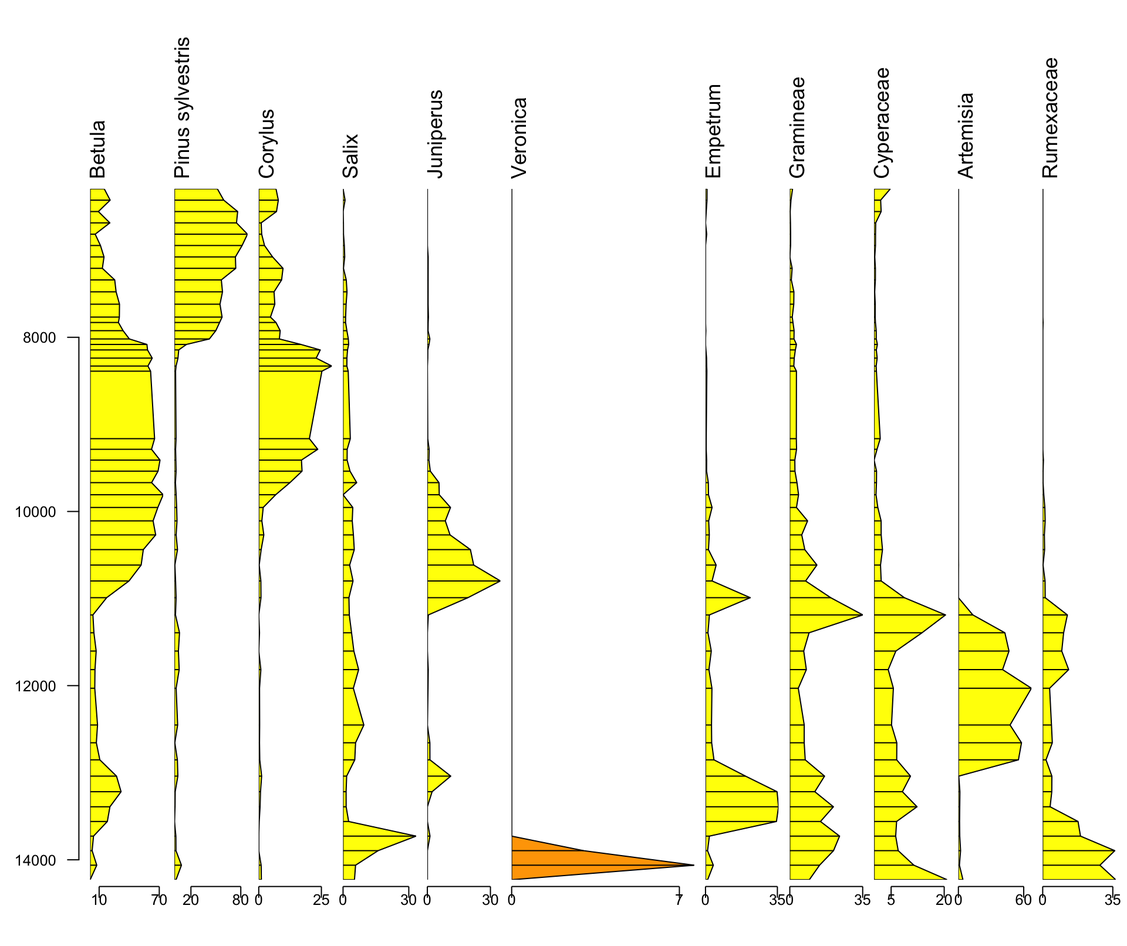
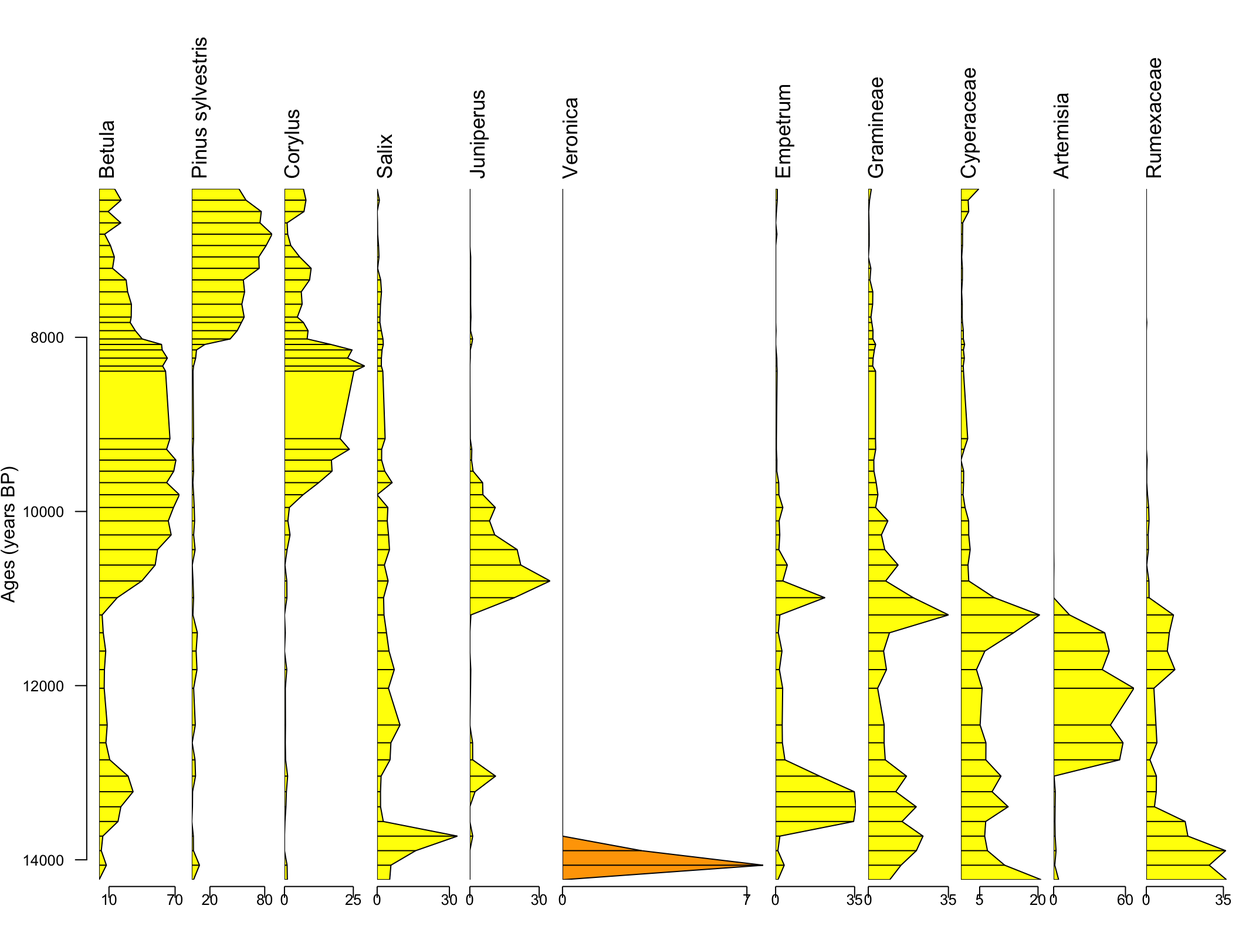
updated

diff --git a/chapters/chp1_stratplot.html b/chapters/chp1_stratplot.html
@@ -169,7 +169,7 @@ pre > code.sourceCode > span > a:first-child::before { text-decoration: underlin
   <ul class="collapse">
   <li><a href="#how-should-the-pollen-data-be-formatted" id="toc-how-should-the-pollen-data-be-formatted" class="nav-link" data-scroll-target="#how-should-the-pollen-data-be-formatted">How should the pollen data be formatted?</a></li>
   <li><a href="#when-did-these-events-occur" id="toc-when-did-these-events-occur" class="nav-link" data-scroll-target="#when-did-these-events-occur">When did these events occur?</a></li>
-  <li><a href="#how-can-less-pollen-productive-taxa-be-emphasized" id="toc-how-can-less-pollen-productive-taxa-be-emphasized" class="nav-link" data-scroll-target="#how-can-less-pollen-productive-taxa-be-emphasized">How can less pollen-productive taxa be emphasized?</a></li>
+  <li><a href="#how-can-rare-taxa-be-emphasized" id="toc-how-can-rare-taxa-be-emphasized" class="nav-link" data-scroll-target="#how-can-rare-taxa-be-emphasized">How can rare taxa be emphasized?</a></li>
   <li><a href="#how-can-the-order-of-taxa-be-rearranged" id="toc-how-can-the-order-of-taxa-be-rearranged" class="nav-link" data-scroll-target="#how-can-the-order-of-taxa-be-rearranged">How can the order of taxa be rearranged?</a></li>
   <li><a href="#how-do-i-add-a-stratigraphically-constrained-cluster-diagram" id="toc-how-do-i-add-a-stratigraphically-constrained-cluster-diagram" class="nav-link" data-scroll-target="#how-do-i-add-a-stratigraphically-constrained-cluster-diagram">How do I add a stratigraphically constrained cluster diagram?</a></li>
   <li><a href="#summary-panel" id="toc-summary-panel" class="nav-link" data-scroll-target="#summary-panel">Summary Panel</a></li>
@@ -212,7 +212,9 @@ pre > code.sourceCode > span > a:first-child::before { text-decoration: underlin
 
 <section id="overview" class="level2">
 <h2 class="anchored" data-anchor-id="overview">Overview</h2>
-<p>In 1980, the Quaternary paleoecologist John Birks wrote that computer-drawn pollen diagrams “are very useful for preliminary arrangement and interpretation of the data …. However, [they] are not sufficiently good for publication, and diagrams for publication must still be drafted by hand.” In the 2020s, all published pollen diagrams are computer-generated. One wonders whether the deliberate process of hand drawing encouraged earlier generations of paleoecologists to think more deeply about the patterns they were representing. But today’s users can rapidly reconfigure their diagrams in an iterative interpretation process and finally create highly customized visualizations using the array of software tools which now exist. Users can easily choose which taxa to include or exclude, change their order, and complement their diagrams with stratigraphically constrained clusters, among other things. In this chapter, we’ll focus on two tools for creating computer-generated stratigraphic plots: the R package <code>rioja</code> and the software Tilia.</p>
+<p>In 1980, the Quaternary paleoecologist John Birks wrote that computer-drawn pollen diagrams “are very useful for preliminary arrangement and interpretation of the data …. However, [they] are not sufficiently good for publication, and diagrams for publication must still be drafted by hand.”</p>
+<p>Now, it is standard for published pollen diagrams to be computer-generated. One wonders whether the deliberate process of hand drawing encouraged earlier generations of paleoecologists to think more deeply about the patterns they were representing. But today’s users can rapidly reconfigure their diagrams in an iterative interpretation process and finally create highly customized visualizations using the array of software tools which now exist.</p>
+<p>Users can easily choose which taxa to include or exclude, change their order, and complement their diagrams with stratigraphically constrained clusters, among other things. In this chapter, we will focus on two tools for creating computer-generated stratigraphic plots: the R package <code>rioja</code> and the software Tilia.</p>
 <div class="quarto-figure quarto-figure-center">
 <figure class="figure">
 <p><img src="../figures/davis1958.JPG" class="img-fluid figure-img" width="800"></p>
@@ -222,7 +224,7 @@ pre > code.sourceCode > span > a:first-child::before { text-decoration: underlin
 </section>
 <section id="plotting-with-rioja" class="level2">
 <h2 class="anchored" data-anchor-id="plotting-with-rioja">Plotting with Rioja</h2>
-<p>In order to plot some pollen data using the R package <code>rioja</code>, we need to call it using the <code>library()</code> function as below. The package comes with sample data - <code>aber</code>, “pollen stratigraphic data from Abernethy Forest, Scotland, spanning approximately 5500 - 12100 BP (from Birks &amp; Mathews 1978)” - which we will plot. The <code>aber</code> object is a list with three components:</p>
+<p>In order to plot some pollen data using the R package <code>rioja</code>, we need to call the package using the <code>library()</code> function as below. The package comes with sample data - <code>aber</code>, “pollen stratigraphic data from Abernethy Forest, Scotland, spanning approximately 5500 - 12100 BP (from Birks &amp; Mathews 1978)” - which we will plot. The <code>aber</code> object is a list with three components:</p>
 <ul>
 <li><code>spec</code> - the actual pollen spectra, 49 rows of samples named by depth of 36 taxa arranged as columns, formatted as percentages</li>
 <li><code>ages</code> - a table mapping depths to uncalibrated and calibrated radiocarbon years, and</li>
@@ -259,13 +261,20 @@ pre > code.sourceCode > span > a:first-child::before { text-decoration: underlin
  98.55  98.76 100.00  99.02  99.99 </code></pre>
 </div>
 </div>
-<p>It’s not perfect, but they add up more or less to 100 - good! Let’s actually try plotting the data now, using the <code>strat.plot()</code> function. The first argument of the function is the pollen spectra to be represented, and we add two additional arguments. Setting <code>scale.percent</code> to true scales the width of any taxon column to its abundance, and setting <code>y.rev</code> to true reverses the y axis, so larger values are below smaller values. This is a standard convention for stratigraphic plots, where age and depth increase as you proceed further down the core.</p>
+<p>It’s not perfect, but they add up more or less to 100 - good! Let’s actually try plotting the data now, using the <code>strat.plot()</code> function. The first argument of the function is the pollen spectra to be represented, and we add five additional arguments. We assign <code>yvar</code> a numeric vector corresponding to the depths in cm of each stratum we plot. (We get these depths from the named rows of <code>aber$spec</code>.) Setting <code>scale.percent</code> to true scales the width of any taxon column to its abundance, and setting <code>y.rev</code> to true reverses the y axis, so larger values are below smaller values. This is a standard convention for stratigraphic plots, where age and depth increase as you proceed further down the core. We’ll also label the y axis, and assign <code>ylabPos</code> a value of 3, which will keep it from being superimposed on the y axis tickmark labels.</p>
 <div class="cell">
-<div class="sourceCode cell-code" id="cb4"><pre class="sourceCode r code-with-copy"><code class="sourceCode r"><span id="cb4-1"><a href="#cb4-1" aria-hidden="true" tabindex="-1"></a><span class="fu">strat.plot</span>(aber<span class="sc">$</span>spec, <span class="at">scale.percent=</span><span class="cn">TRUE</span>, <span class="at">y.rev=</span><span class="cn">TRUE</span>)</span></code><button title="Copy to Clipboard" class="code-copy-button"><i class="bi"></i></button></pre></div>
+<div class="sourceCode cell-code" id="cb4"><pre class="sourceCode r code-with-copy"><code class="sourceCode r"><span id="cb4-1"><a href="#cb4-1" aria-hidden="true" tabindex="-1"></a>depths <span class="ot">=</span> <span class="fu">as.numeric</span>(<span class="fu">row.names</span>(aber<span class="sc">$</span>spec))</span>
+<span id="cb4-2"><a href="#cb4-2" aria-hidden="true" tabindex="-1"></a></span>
+<span id="cb4-3"><a href="#cb4-3" aria-hidden="true" tabindex="-1"></a><span class="fu">strat.plot</span>(aber<span class="sc">$</span>spec, </span>
+<span id="cb4-4"><a href="#cb4-4" aria-hidden="true" tabindex="-1"></a>           <span class="at">yvar=</span>depths,</span>
+<span id="cb4-5"><a href="#cb4-5" aria-hidden="true" tabindex="-1"></a>           <span class="at">scale.percent=</span><span class="cn">TRUE</span>, </span>
+<span id="cb4-6"><a href="#cb4-6" aria-hidden="true" tabindex="-1"></a>           <span class="at">y.rev=</span><span class="cn">TRUE</span>,</span>
+<span id="cb4-7"><a href="#cb4-7" aria-hidden="true" tabindex="-1"></a>           <span class="at">ylabel=</span><span class="st">"Depth (cm)"</span>, </span>
+<span id="cb4-8"><a href="#cb4-8" aria-hidden="true" tabindex="-1"></a>           <span class="at">ylabPos =</span> <span class="dv">3</span>)</span></code><button title="Copy to Clipboard" class="code-copy-button"><i class="bi"></i></button></pre></div>
 <div class="cell-output-display">
 <div>
 <figure class="figure">
-<p><img src="chp1_stratplot_files/figure-html/three-1.png" class="img-fluid figure-img" width="672"></p>
+<p><img src="chp1_stratplot_files/figure-html/three-1.png" class="img-fluid figure-img" width="1056"></p>
 </figure>
 </div>
 </div>
@@ -276,11 +285,16 @@ pre > code.sourceCode > span > a:first-child::before { text-decoration: underlin
 <div class="sourceCode cell-code" id="cb5"><pre class="sourceCode r code-with-copy"><code class="sourceCode r"><span id="cb5-1"><a href="#cb5-1" aria-hidden="true" tabindex="-1"></a>aber_streamlined1  <span class="ot">=</span> aber<span class="sc">$</span>spec[<span class="fu">colMeans</span>(aber<span class="sc">$</span>spec)<span class="sc">&gt;</span><span class="dv">3</span>]</span>
 <span id="cb5-2"><a href="#cb5-2" aria-hidden="true" tabindex="-1"></a></span>
 <span id="cb5-3"><a href="#cb5-3" aria-hidden="true" tabindex="-1"></a></span>
-<span id="cb5-4"><a href="#cb5-4" aria-hidden="true" tabindex="-1"></a><span class="fu">strat.plot</span>(aber_streamlined1, <span class="at">scale.percent=</span><span class="cn">TRUE</span>, <span class="at">y.rev=</span><span class="cn">TRUE</span>)</span></code><button title="Copy to Clipboard" class="code-copy-button"><i class="bi"></i></button></pre></div>
+<span id="cb5-4"><a href="#cb5-4" aria-hidden="true" tabindex="-1"></a><span class="fu">strat.plot</span>(aber_streamlined1, </span>
+<span id="cb5-5"><a href="#cb5-5" aria-hidden="true" tabindex="-1"></a>           <span class="at">yvar=</span>depths,</span>
+<span id="cb5-6"><a href="#cb5-6" aria-hidden="true" tabindex="-1"></a>           <span class="at">scale.percent=</span><span class="cn">TRUE</span>, </span>
+<span id="cb5-7"><a href="#cb5-7" aria-hidden="true" tabindex="-1"></a>           <span class="at">y.rev=</span><span class="cn">TRUE</span>,</span>
+<span id="cb5-8"><a href="#cb5-8" aria-hidden="true" tabindex="-1"></a>           <span class="at">ylabel=</span><span class="st">"Depth (cm)"</span>, </span>
+<span id="cb5-9"><a href="#cb5-9" aria-hidden="true" tabindex="-1"></a>           <span class="at">ylabPos =</span> <span class="dv">3</span>)</span></code><button title="Copy to Clipboard" class="code-copy-button"><i class="bi"></i></button></pre></div>
 <div class="cell-output-display">
 <div>
 <figure class="figure">
-<p><img src="chp1_stratplot_files/figure-html/four-1.png" class="img-fluid figure-img" width="672"></p>
+<p><img src="chp1_stratplot_files/figure-html/four-1.png" class="img-fluid figure-img" width="1056"></p>
 </figure>
 </div>
 </div>
@@ -290,24 +304,26 @@ pre > code.sourceCode > span > a:first-child::before { text-decoration: underlin
 <section id="when-did-these-events-occur" class="level3">
 <h3 class="anchored" data-anchor-id="when-did-these-events-occur">When did these events occur?</h3>
 <p>But when did these events occur? We can’t simply assume that depth is one-to-one with time, because as the vegetation tracked by this sediment core changed, the rate of sedimentation may well have changed too. One can imagine that a prairie landscape suggested at the bottom of the core, perhaps grazed by large herds of animals, would have greater disturbance and sedimentation then a later forest landscape, where tree roots are keeping the soil solidly in place.</p>
-<p>Luckily, the <code>aber</code> dataset comes with a chronology that we can use in place of depth for our y axis.</p>
+<p>Luckily, the <code>aber</code> dataset comes with a chronology that we can use in place of depth for our y axis. We’ll change the y label to reflect the fact that now we’re plotting against age, not depth.</p>
 <div class="cell">
 <div class="sourceCode cell-code" id="cb6"><pre class="sourceCode r code-with-copy"><code class="sourceCode r"><span id="cb6-1"><a href="#cb6-1" aria-hidden="true" tabindex="-1"></a><span class="fu">strat.plot</span>(aber_streamlined1, </span>
 <span id="cb6-2"><a href="#cb6-2" aria-hidden="true" tabindex="-1"></a>           <span class="at">yvar=</span>aber<span class="sc">$</span>ages<span class="sc">$</span><span class="st">`</span><span class="at">Age (years BP)</span><span class="st">`</span>, </span>
 <span id="cb6-3"><a href="#cb6-3" aria-hidden="true" tabindex="-1"></a>           <span class="at">scale.percent=</span><span class="cn">TRUE</span>, </span>
-<span id="cb6-4"><a href="#cb6-4" aria-hidden="true" tabindex="-1"></a>           <span class="at">y.rev=</span><span class="cn">TRUE</span>)</span></code><button title="Copy to Clipboard" class="code-copy-button"><i class="bi"></i></button></pre></div>
+<span id="cb6-4"><a href="#cb6-4" aria-hidden="true" tabindex="-1"></a>           <span class="at">y.rev=</span><span class="cn">TRUE</span>,</span>
+<span id="cb6-5"><a href="#cb6-5" aria-hidden="true" tabindex="-1"></a>           <span class="at">ylabel=</span><span class="st">"Ages (years BP)"</span>, </span>
+<span id="cb6-6"><a href="#cb6-6" aria-hidden="true" tabindex="-1"></a>           <span class="at">ylabPos =</span> <span class="dv">3</span>)</span></code><button title="Copy to Clipboard" class="code-copy-button"><i class="bi"></i></button></pre></div>
 <div class="cell-output-display">
 <div>
 <figure class="figure">
-<p><img src="chp1_stratplot_files/figure-html/five-1.png" class="img-fluid figure-img" width="960"></p>
+<p><img src="chp1_stratplot_files/figure-html/five-1.png" class="img-fluid figure-img" width="1056"></p>
 </figure>
 </div>
 </div>
 </div>
 <p>Substituting time for depth doesn’t wildly change our understanding of the dynamics at Abernethy. One of the biggest changes is that, actually, that earliest ecological period lasted longer than we might have guessed from the depth profile, suggesting a slower sedimentation rate then. Still, having a chronology is generally preferably to going by bare depth, since it enables comparison to other sites and allows us to disentangle real ecological change from change in sedimentation rate.</p>
 </section>
-<section id="how-can-less-pollen-productive-taxa-be-emphasized" class="level3">
-<h3 class="anchored" data-anchor-id="how-can-less-pollen-productive-taxa-be-emphasized">How can less pollen-productive taxa be emphasized?</h3>
+<section id="how-can-rare-taxa-be-emphasized" class="level3">
+<h3 class="anchored" data-anchor-id="how-can-rare-taxa-be-emphasized">How can rare taxa be emphasized?</h3>
 <p>Earlier, we grabbed just the most prevalent taxa at our site. But you may care about a taxon that doesn’t show up as abundantly in the pollen-record – perhaps because it’s insect-pollinated rather than wind-pollinated – but whose presences are meaningful, nonetheless. We can exaggerate the scale factor of these taxa in order to emphasize their importance. Let’s do so with the insect-pollinated taxa, <i>Veronica</i>.</p>
 <p>First, we’ll bind the column of <i>Veronica</i> from the original dataframe to our most prevalent taxa. We’ll set <code>plot.poly</code> to TRUE to plot polygons, since we’ll want to change the fill colors, and we’ll also make sure the names are correctly formatted by explicitly renaming the column headings.</p>
 <div class="cell">
@@ -321,11 +337,13 @@ pre > code.sourceCode > span > a:first-child::before { text-decoration: underlin
 <span id="cb7-8"><a href="#cb7-8" aria-hidden="true" tabindex="-1"></a>           <span class="at">yvar=</span>aber<span class="sc">$</span>ages<span class="sc">$</span><span class="st">`</span><span class="at">Age (years BP)</span><span class="st">`</span>,</span>
 <span id="cb7-9"><a href="#cb7-9" aria-hidden="true" tabindex="-1"></a>           <span class="at">scale.percent=</span><span class="cn">TRUE</span>, </span>
 <span id="cb7-10"><a href="#cb7-10" aria-hidden="true" tabindex="-1"></a>           <span class="at">y.rev=</span><span class="cn">TRUE</span>,</span>
-<span id="cb7-11"><a href="#cb7-11" aria-hidden="true" tabindex="-1"></a>           <span class="at">plot.poly=</span><span class="cn">TRUE</span>)</span></code><button title="Copy to Clipboard" class="code-copy-button"><i class="bi"></i></button></pre></div>
+<span id="cb7-11"><a href="#cb7-11" aria-hidden="true" tabindex="-1"></a>           <span class="at">plot.poly=</span><span class="cn">TRUE</span>,</span>
+<span id="cb7-12"><a href="#cb7-12" aria-hidden="true" tabindex="-1"></a>           <span class="at">ylabel=</span><span class="st">"Ages (years BP)"</span>, </span>
+<span id="cb7-13"><a href="#cb7-13" aria-hidden="true" tabindex="-1"></a>           <span class="at">ylabPos =</span> <span class="dv">3</span>)</span></code><button title="Copy to Clipboard" class="code-copy-button"><i class="bi"></i></button></pre></div>
 <div class="cell-output-display">
 <div>
 <figure class="figure">
-<p><img src="chp1_stratplot_files/figure-html/six-1.png" class="img-fluid figure-img" width="960"></p>
+<p><img src="chp1_stratplot_files/figure-html/six-1.png" class="img-fluid figure-img" width="1056"></p>
 </figure>
 </div>
 </div>
@@ -337,15 +355,17 @@ pre > code.sourceCode > span > a:first-child::before { text-decoration: underlin
 <span id="cb8-2"><a href="#cb8-2" aria-hidden="true" tabindex="-1"></a>           <span class="at">yvar=</span>aber<span class="sc">$</span>ages<span class="sc">$</span><span class="st">`</span><span class="at">Age (years BP)</span><span class="st">`</span>,</span>
 <span id="cb8-3"><a href="#cb8-3" aria-hidden="true" tabindex="-1"></a>           <span class="at">scale.percent=</span><span class="cn">FALSE</span>,</span>
 <span id="cb8-4"><a href="#cb8-4" aria-hidden="true" tabindex="-1"></a>           <span class="at">graph.widths=</span><span class="fu">c</span>(<span class="fl">0.2</span>,<span class="fu">rep</span>(<span class="fl">0.08</span>,<span class="dv">10</span>)),</span>
-<span id="cb8-5"><a href="#cb8-5" aria-hidden="true" tabindex="-1"></a>           <span class="at">y.rev=</span><span class="cn">TRUE</span>, </span>
-<span id="cb8-6"><a href="#cb8-6" aria-hidden="true" tabindex="-1"></a>           <span class="at">plot.poly=</span><span class="cn">TRUE</span>,</span>
-<span id="cb8-7"><a href="#cb8-7" aria-hidden="true" tabindex="-1"></a>           <span class="at">col.poly=</span><span class="fu">c</span>(<span class="st">"orange"</span>,<span class="fu">rep</span>(<span class="st">"yellow"</span>,<span class="dv">10</span>)),</span>
-<span id="cb8-8"><a href="#cb8-8" aria-hidden="true" tabindex="-1"></a>           <span class="at">exag=</span><span class="fu">c</span>(<span class="cn">TRUE</span>,<span class="fu">rep</span>(<span class="cn">FALSE</span>,<span class="dv">10</span>)),</span>
-<span id="cb8-9"><a href="#cb8-9" aria-hidden="true" tabindex="-1"></a>           <span class="at">col.exag=</span><span class="st">"red"</span>)</span></code><button title="Copy to Clipboard" class="code-copy-button"><i class="bi"></i></button></pre></div>
+<span id="cb8-5"><a href="#cb8-5" aria-hidden="true" tabindex="-1"></a>           <span class="at">y.rev=</span><span class="cn">TRUE</span>,</span>
+<span id="cb8-6"><a href="#cb8-6" aria-hidden="true" tabindex="-1"></a>           <span class="at">ylabel=</span><span class="st">"Ages (years BP)"</span>, </span>
+<span id="cb8-7"><a href="#cb8-7" aria-hidden="true" tabindex="-1"></a>           <span class="at">ylabPos =</span> <span class="dv">3</span>, </span>
+<span id="cb8-8"><a href="#cb8-8" aria-hidden="true" tabindex="-1"></a>           <span class="at">plot.poly=</span><span class="cn">TRUE</span>,</span>
+<span id="cb8-9"><a href="#cb8-9" aria-hidden="true" tabindex="-1"></a>           <span class="at">col.poly=</span><span class="fu">c</span>(<span class="st">"orange"</span>,<span class="fu">rep</span>(<span class="st">"yellow"</span>,<span class="dv">10</span>)),</span>
+<span id="cb8-10"><a href="#cb8-10" aria-hidden="true" tabindex="-1"></a>           <span class="at">exag=</span><span class="fu">c</span>(<span class="cn">TRUE</span>,<span class="fu">rep</span>(<span class="cn">FALSE</span>,<span class="dv">10</span>)),</span>
+<span id="cb8-11"><a href="#cb8-11" aria-hidden="true" tabindex="-1"></a>           <span class="at">col.exag=</span><span class="st">"red"</span>)</span></code><button title="Copy to Clipboard" class="code-copy-button"><i class="bi"></i></button></pre></div>
 <div class="cell-output-display">
 <div>
 <figure class="figure">
-<p><img src="chp1_stratplot_files/figure-html/seven-1.png" class="img-fluid figure-img" width="960"></p>
+<p><img src="chp1_stratplot_files/figure-html/seven-1.png" class="img-fluid figure-img" width="1056"></p>
 </figure>
 </div>
 </div>
@@ -356,15 +376,17 @@ pre > code.sourceCode > span > a:first-child::before { text-decoration: underlin
 <span id="cb9-2"><a href="#cb9-2" aria-hidden="true" tabindex="-1"></a>           <span class="at">yvar=</span>aber<span class="sc">$</span>ages<span class="sc">$</span><span class="st">`</span><span class="at">Age (years BP)</span><span class="st">`</span>,</span>
 <span id="cb9-3"><a href="#cb9-3" aria-hidden="true" tabindex="-1"></a>           <span class="at">scale.percent=</span><span class="cn">FALSE</span>,</span>
 <span id="cb9-4"><a href="#cb9-4" aria-hidden="true" tabindex="-1"></a>           <span class="at">graph.widths=</span><span class="fu">c</span>(<span class="fl">0.2</span>,<span class="fu">rep</span>(<span class="fl">0.08</span>,<span class="dv">10</span>)),</span>
-<span id="cb9-5"><a href="#cb9-5" aria-hidden="true" tabindex="-1"></a>           <span class="at">y.rev=</span><span class="cn">TRUE</span>, </span>
-<span id="cb9-6"><a href="#cb9-6" aria-hidden="true" tabindex="-1"></a>           <span class="at">plot.poly=</span><span class="cn">TRUE</span>,</span>
-<span id="cb9-7"><a href="#cb9-7" aria-hidden="true" tabindex="-1"></a>           <span class="at">col.poly=</span><span class="fu">c</span>(<span class="st">"orange"</span>,<span class="fu">rep</span>(<span class="st">"yellow"</span>,<span class="dv">10</span>)),</span>
-<span id="cb9-8"><a href="#cb9-8" aria-hidden="true" tabindex="-1"></a>           <span class="at">col.line=</span><span class="st">"red"</span>,</span>
-<span id="cb9-9"><a href="#cb9-9" aria-hidden="true" tabindex="-1"></a>           <span class="at">col.bar=</span><span class="st">"black"</span>)</span></code><button title="Copy to Clipboard" class="code-copy-button"><i class="bi"></i></button></pre></div>
+<span id="cb9-5"><a href="#cb9-5" aria-hidden="true" tabindex="-1"></a>           <span class="at">y.rev=</span><span class="cn">TRUE</span>,</span>
+<span id="cb9-6"><a href="#cb9-6" aria-hidden="true" tabindex="-1"></a>           <span class="at">ylabel=</span><span class="st">"Ages (years BP)"</span>,</span>
+<span id="cb9-7"><a href="#cb9-7" aria-hidden="true" tabindex="-1"></a>           <span class="at">ylabPos =</span> <span class="dv">3</span>,</span>
+<span id="cb9-8"><a href="#cb9-8" aria-hidden="true" tabindex="-1"></a>           <span class="at">plot.poly=</span><span class="cn">TRUE</span>,</span>
+<span id="cb9-9"><a href="#cb9-9" aria-hidden="true" tabindex="-1"></a>           <span class="at">col.poly=</span><span class="fu">c</span>(<span class="st">"orange"</span>,<span class="fu">rep</span>(<span class="st">"yellow"</span>,<span class="dv">10</span>)),</span>
+<span id="cb9-10"><a href="#cb9-10" aria-hidden="true" tabindex="-1"></a>           <span class="at">col.line=</span><span class="st">"red"</span>,</span>
+<span id="cb9-11"><a href="#cb9-11" aria-hidden="true" tabindex="-1"></a>           <span class="at">col.bar=</span><span class="st">"black"</span>)</span></code><button title="Copy to Clipboard" class="code-copy-button"><i class="bi"></i></button></pre></div>
 <div class="cell-output-display">
 <div>
 <figure class="figure">
-<p><img src="chp1_stratplot_files/figure-html/ten-1.png" class="img-fluid figure-img" width="960"></p>
+<p><img src="chp1_stratplot_files/figure-html/ten-1.png" class="img-fluid figure-img" width="1056"></p>
 </figure>
 </div>
 </div>
@@ -387,15 +409,17 @@ pre > code.sourceCode > span > a:first-child::before { text-decoration: underlin
 <span id="cb10-11"><a href="#cb10-11" aria-hidden="true" tabindex="-1"></a>           <span class="at">graph.widths=</span><span class="fu">c</span>(<span class="fu">rep</span>(<span class="fl">0.08</span>, <span class="dv">5</span>), <span class="fl">0.2</span>,</span>
 <span id="cb10-12"><a href="#cb10-12" aria-hidden="true" tabindex="-1"></a>                          <span class="fu">rep</span>(<span class="fl">0.08</span>, <span class="dv">5</span>)),</span>
 <span id="cb10-13"><a href="#cb10-13" aria-hidden="true" tabindex="-1"></a>           <span class="at">y.rev=</span><span class="cn">TRUE</span>, </span>
-<span id="cb10-14"><a href="#cb10-14" aria-hidden="true" tabindex="-1"></a>           <span class="at">plot.poly=</span><span class="cn">TRUE</span>,</span>
-<span id="cb10-15"><a href="#cb10-15" aria-hidden="true" tabindex="-1"></a>           <span class="at">col.poly=</span><span class="fu">c</span>(<span class="fu">rep</span>(<span class="st">"yellow"</span>, <span class="dv">5</span>),<span class="st">"orange"</span>,</span>
-<span id="cb10-16"><a href="#cb10-16" aria-hidden="true" tabindex="-1"></a>                      <span class="fu">rep</span>(<span class="st">"yellow"</span>, <span class="dv">5</span>)),</span>
-<span id="cb10-17"><a href="#cb10-17" aria-hidden="true" tabindex="-1"></a>           <span class="at">col.line=</span><span class="st">"black"</span>,</span>
-<span id="cb10-18"><a href="#cb10-18" aria-hidden="true" tabindex="-1"></a>           <span class="at">col.bar=</span><span class="st">"black"</span>)</span></code><button title="Copy to Clipboard" class="code-copy-button"><i class="bi"></i></button></pre></div>
+<span id="cb10-14"><a href="#cb10-14" aria-hidden="true" tabindex="-1"></a>           <span class="at">ylabel=</span><span class="st">"Ages (years BP)"</span>,</span>
+<span id="cb10-15"><a href="#cb10-15" aria-hidden="true" tabindex="-1"></a>           <span class="at">ylabPos =</span> <span class="dv">3</span>,</span>
+<span id="cb10-16"><a href="#cb10-16" aria-hidden="true" tabindex="-1"></a>           <span class="at">plot.poly=</span><span class="cn">TRUE</span>,</span>
+<span id="cb10-17"><a href="#cb10-17" aria-hidden="true" tabindex="-1"></a>           <span class="at">col.poly=</span><span class="fu">c</span>(<span class="fu">rep</span>(<span class="st">"yellow"</span>, <span class="dv">5</span>),<span class="st">"orange"</span>,</span>
+<span id="cb10-18"><a href="#cb10-18" aria-hidden="true" tabindex="-1"></a>                      <span class="fu">rep</span>(<span class="st">"yellow"</span>, <span class="dv">5</span>)),</span>
+<span id="cb10-19"><a href="#cb10-19" aria-hidden="true" tabindex="-1"></a>           <span class="at">col.line=</span><span class="st">"black"</span>,</span>
+<span id="cb10-20"><a href="#cb10-20" aria-hidden="true" tabindex="-1"></a>           <span class="at">col.bar=</span><span class="st">"black"</span>)</span></code><button title="Copy to Clipboard" class="code-copy-button"><i class="bi"></i></button></pre></div>
 <div class="cell-output-display">
 <div>
 <figure class="figure">
-<p><img src="chp1_stratplot_files/figure-html/nine-1.png" class="img-fluid figure-img" width="960"></p>
+<p><img src="chp1_stratplot_files/figure-html/nine-1.png" class="img-fluid figure-img" width="1056"></p>
 </figure>
 </div>
 </div>
@@ -420,16 +444,18 @@ pre > code.sourceCode > span > a:first-child::before { text-decoration: underlin
 <span id="cb11-12"><a href="#cb11-12" aria-hidden="true" tabindex="-1"></a>           <span class="at">graph.widths=</span><span class="fu">c</span>(<span class="fu">rep</span>(<span class="fl">0.08</span>, <span class="dv">5</span>), <span class="fl">0.2</span>,</span>
 <span id="cb11-13"><a href="#cb11-13" aria-hidden="true" tabindex="-1"></a>                          <span class="fu">rep</span>(<span class="fl">0.08</span>, <span class="dv">5</span>)),</span>
 <span id="cb11-14"><a href="#cb11-14" aria-hidden="true" tabindex="-1"></a>           <span class="at">y.rev=</span><span class="cn">TRUE</span>, </span>
-<span id="cb11-15"><a href="#cb11-15" aria-hidden="true" tabindex="-1"></a>           <span class="at">plot.poly=</span><span class="cn">TRUE</span>,</span>
-<span id="cb11-16"><a href="#cb11-16" aria-hidden="true" tabindex="-1"></a>           <span class="at">col.poly=</span><span class="fu">c</span>(<span class="fu">rep</span>(<span class="st">"yellow"</span>, <span class="dv">5</span>),<span class="st">"orange"</span>,</span>
-<span id="cb11-17"><a href="#cb11-17" aria-hidden="true" tabindex="-1"></a>                      <span class="fu">rep</span>(<span class="st">"yellow"</span>, <span class="dv">5</span>)),</span>
-<span id="cb11-18"><a href="#cb11-18" aria-hidden="true" tabindex="-1"></a>           <span class="at">col.line=</span><span class="st">"black"</span>,</span>
-<span id="cb11-19"><a href="#cb11-19" aria-hidden="true" tabindex="-1"></a>           <span class="at">col.bar=</span><span class="st">"black"</span>,</span>
-<span id="cb11-20"><a href="#cb11-20" aria-hidden="true" tabindex="-1"></a>           <span class="at">clust=</span>aber_clust)</span></code><button title="Copy to Clipboard" class="code-copy-button"><i class="bi"></i></button></pre></div>
+<span id="cb11-15"><a href="#cb11-15" aria-hidden="true" tabindex="-1"></a>           <span class="at">ylabel=</span><span class="st">"Ages (years BP)"</span>, </span>
+<span id="cb11-16"><a href="#cb11-16" aria-hidden="true" tabindex="-1"></a>           <span class="at">ylabPos =</span> <span class="dv">3</span>, </span>
+<span id="cb11-17"><a href="#cb11-17" aria-hidden="true" tabindex="-1"></a>           <span class="at">plot.poly=</span><span class="cn">TRUE</span>,</span>
+<span id="cb11-18"><a href="#cb11-18" aria-hidden="true" tabindex="-1"></a>           <span class="at">col.poly=</span><span class="fu">c</span>(<span class="fu">rep</span>(<span class="st">"yellow"</span>, <span class="dv">5</span>),<span class="st">"orange"</span>,</span>
+<span id="cb11-19"><a href="#cb11-19" aria-hidden="true" tabindex="-1"></a>                      <span class="fu">rep</span>(<span class="st">"yellow"</span>, <span class="dv">5</span>)),</span>
+<span id="cb11-20"><a href="#cb11-20" aria-hidden="true" tabindex="-1"></a>           <span class="at">col.line=</span><span class="st">"black"</span>,</span>
+<span id="cb11-21"><a href="#cb11-21" aria-hidden="true" tabindex="-1"></a>           <span class="at">col.bar=</span><span class="st">"black"</span>,</span>
+<span id="cb11-22"><a href="#cb11-22" aria-hidden="true" tabindex="-1"></a>           <span class="at">clust=</span>aber_clust)</span></code><button title="Copy to Clipboard" class="code-copy-button"><i class="bi"></i></button></pre></div>
 <div class="cell-output-display">
 <div>
 <figure class="figure">
-<p><img src="chp1_stratplot_files/figure-html/eleven-1.png" class="img-fluid figure-img" width="960"></p>
+<p><img src="chp1_stratplot_files/figure-html/eleven-1.png" class="img-fluid figure-img" width="1056"></p>
 </figure>
 </div>
 </div>
@@ -456,18 +482,20 @@ pre > code.sourceCode > span > a:first-child::before { text-decoration: underlin
 <span id="cb12-15"><a href="#cb12-15" aria-hidden="true" tabindex="-1"></a>           <span class="at">graph.widths=</span><span class="fu">c</span>(<span class="fu">rep</span>(<span class="fl">0.08</span>, <span class="dv">5</span>), <span class="fl">0.12</span>,</span>
 <span id="cb12-16"><a href="#cb12-16" aria-hidden="true" tabindex="-1"></a>                          <span class="fu">rep</span>(<span class="fl">0.08</span>, <span class="dv">6</span>)),</span>
 <span id="cb12-17"><a href="#cb12-17" aria-hidden="true" tabindex="-1"></a>           <span class="at">y.rev=</span><span class="cn">TRUE</span>, </span>
-<span id="cb12-18"><a href="#cb12-18" aria-hidden="true" tabindex="-1"></a>           <span class="at">plot.poly=</span><span class="cn">TRUE</span>,</span>
-<span id="cb12-19"><a href="#cb12-19" aria-hidden="true" tabindex="-1"></a>           <span class="at">col.poly=</span><span class="fu">c</span>(<span class="fu">rep</span>(<span class="st">"yellow"</span>, <span class="dv">5</span>),<span class="st">"orange"</span>,</span>
-<span id="cb12-20"><a href="#cb12-20" aria-hidden="true" tabindex="-1"></a>                      <span class="fu">rep</span>(<span class="st">"yellow"</span>, <span class="dv">5</span>),</span>
-<span id="cb12-21"><a href="#cb12-21" aria-hidden="true" tabindex="-1"></a>                      <span class="st">"green"</span>),</span>
-<span id="cb12-22"><a href="#cb12-22" aria-hidden="true" tabindex="-1"></a>           <span class="at">col.line=</span><span class="st">"black"</span>,</span>
-<span id="cb12-23"><a href="#cb12-23" aria-hidden="true" tabindex="-1"></a>           <span class="at">col.bar=</span><span class="st">"black"</span>,</span>
-<span id="cb12-24"><a href="#cb12-24" aria-hidden="true" tabindex="-1"></a>           <span class="at">col.bg=</span><span class="st">"tan"</span>,</span>
-<span id="cb12-25"><a href="#cb12-25" aria-hidden="true" tabindex="-1"></a>           <span class="at">clust=</span>aber_clust)</span></code><button title="Copy to Clipboard" class="code-copy-button"><i class="bi"></i></button></pre></div>
+<span id="cb12-18"><a href="#cb12-18" aria-hidden="true" tabindex="-1"></a>           <span class="at">ylabel=</span><span class="st">"Ages (years BP)"</span>, </span>
+<span id="cb12-19"><a href="#cb12-19" aria-hidden="true" tabindex="-1"></a>           <span class="at">ylabPos =</span> <span class="dv">3</span>, </span>
+<span id="cb12-20"><a href="#cb12-20" aria-hidden="true" tabindex="-1"></a>           <span class="at">plot.poly=</span><span class="cn">TRUE</span>,</span>
+<span id="cb12-21"><a href="#cb12-21" aria-hidden="true" tabindex="-1"></a>           <span class="at">col.poly=</span><span class="fu">c</span>(<span class="fu">rep</span>(<span class="st">"yellow"</span>, <span class="dv">5</span>),<span class="st">"orange"</span>,</span>
+<span id="cb12-22"><a href="#cb12-22" aria-hidden="true" tabindex="-1"></a>                      <span class="fu">rep</span>(<span class="st">"yellow"</span>, <span class="dv">5</span>),</span>
+<span id="cb12-23"><a href="#cb12-23" aria-hidden="true" tabindex="-1"></a>                      <span class="st">"green"</span>),</span>
+<span id="cb12-24"><a href="#cb12-24" aria-hidden="true" tabindex="-1"></a>           <span class="at">col.line=</span><span class="st">"black"</span>,</span>
+<span id="cb12-25"><a href="#cb12-25" aria-hidden="true" tabindex="-1"></a>           <span class="at">col.bar=</span><span class="st">"black"</span>,</span>
+<span id="cb12-26"><a href="#cb12-26" aria-hidden="true" tabindex="-1"></a>           <span class="at">col.bg=</span><span class="st">"tan"</span>,</span>
+<span id="cb12-27"><a href="#cb12-27" aria-hidden="true" tabindex="-1"></a>           <span class="at">clust=</span>aber_clust)</span></code><button title="Copy to Clipboard" class="code-copy-button"><i class="bi"></i></button></pre></div>
 <div class="cell-output-display">
 <div>
 <figure class="figure">
-<p><img src="chp1_stratplot_files/figure-html/twelve-1.png" class="img-fluid figure-img" width="960"></p>
+<p><img src="chp1_stratplot_files/figure-html/twelve-1.png" class="img-fluid figure-img" width="1056"></p>
 </figure>
 </div>
 </div>
@@ -524,7 +552,7 @@ pre > code.sourceCode > span > a:first-child::before { text-decoration: underlin
 </section>
 <section id="conclusion" class="level2">
 <h2 class="anchored" data-anchor-id="conclusion">Conclusion</h2>
-<p>In this module, we’ve walked through how to start building stratigraphic plots (with a focus on pollen data) using the R library Rioja and Eric Grimm’s Tilia. We hope that it has been helpful. Please reach out with any questions.</p>
+<p>In this module, we’ve walked through how to start building stratigraphic plots (with a focus on pollen data) using the R library Rioja and Eric Grimm’s Tilia. We hope that it has been helpful. Please reach out with any questions to Nick Hoffman (hoffmanick@gmail.com) or Sarah Ivory (sji15@psu.edu).</p>
 </section>
 <section id="references" class="level2">
 <h2 class="anchored" data-anchor-id="references">References</h2>
